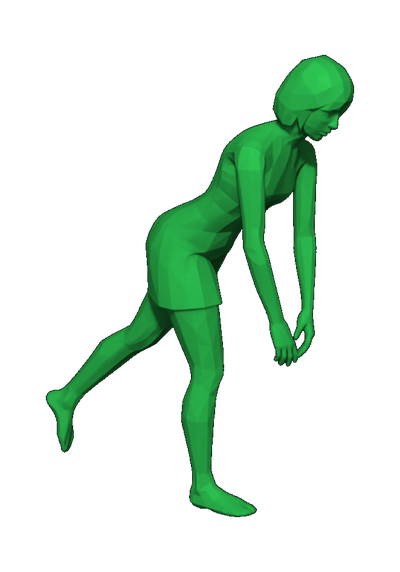
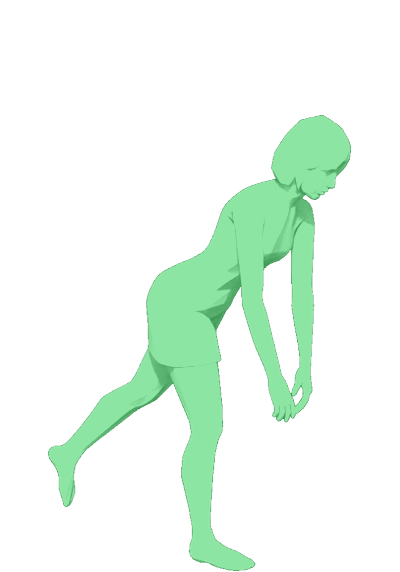
Add animated data grid hero with rotating exercise figures
Animated grid background with pulsing cells in Baseline brand colors,
5 exercise figures cycling (mobility, jefferson curl, push-up, lunge,
breathwork meditation), mouse-follow glow on desktop, auto-sizing grid.
Restructured hero layout: headline → figures → subtitle → email form.
Re-tinted all figures with consistent blend style preserving 3D shading.

Changed region(s): [[0.09, 0.0892, 0.9, 1.0]]

diff --git a/css/main.css b/css/main.css
@@ -65,13 +65,20 @@ section{position:relative}
 .mobile-nav a:hover{color:var(--accent)}
 
 /* ═══ HERO ═══ */
-.hero{position:relative;min-height:100vh;min-height:100dvh;display:flex;flex-direction:column;align-items:center;justify-content:center;overflow:hidden;padding:80px 24px 40px}
+.hero{position:relative;min-height:100vh;min-height:100dvh;display:flex;flex-direction:column;align-items:center;justify-content:flex-start;overflow:hidden;padding:72px 24px 40px}
 @media(min-width:768px){.hero{min-height:80vh}}
 .hero .glow{top:30%;left:50%;transform:translate(-50%,-50%);width:600px;height:600px;transition:background .8s ease}
-.hero-model{position:absolute;top:50%;left:50%;transform:translate(-50%,-50%);width:min(100vw,560px);height:min(70vh,560px);z-index:1;pointer-events:none}
-.hero-model img{position:absolute;inset:0;width:100%;height:100%;object-fit:contain;object-position:center bottom;opacity:0;transition:opacity 1s ease}
-.hero-model img.active{opacity:.25}
-.hero-model img.smaller{transform:scale(.55)}
+/* ═══ DATA GRID HERO ═══ */
+.data-grid-hero{position:absolute;inset:0;z-index:0;display:grid;pointer-events:none;overflow:hidden}
+.data-grid-hero.has-glow{pointer-events:auto}
+.grid-cell{border-radius:4px;opacity:var(--opacity-min,.04);will-change:opacity}
+.data-grid-glow{position:absolute;inset:0;pointer-events:none;background:radial-gradient(circle 180px at var(--mx,50%) var(--my,50%),rgba(143,168,154,.12),transparent);opacity:0;transition:opacity .3s}
+.data-grid-hero.has-glow .data-grid-glow{opacity:1}
+@keyframes cell-pulse{from{opacity:var(--opacity-min,.04)}to{opacity:var(--opacity-max,.2)}}
+@media(prefers-reduced-motion:reduce){.grid-cell{animation:none!important;opacity:var(--opacity-min,.04)}}
+.hero-model{position:relative;width:100%;height:clamp(180px,35vh,320px);margin:16px 0;pointer-events:none}
+.hero-model img{position:absolute;left:50%;top:0;transform:translateX(-50%);height:100%;width:auto;object-fit:contain;opacity:0;transition:opacity 1s ease}
+.hero-model img.active{opacity:.35}
 .hero-copy{text-align:center;max-width:480px;position:relative;z-index:2;padding-bottom:20px}
 .hero h1{font-family:var(--serif);font-size:clamp(32px,8vw,52px);font-weight:400;line-height:1.1;color:var(--t1);margin-bottom:18px;animation:fadeUp .7s ease .15s both}
 .hero h1 em{font-style:italic;color:var(--green)}
@@ -213,7 +220,7 @@ footer{padding:40px 0;border-top:1px solid var(--stroke);text-align:center}
 
 /* ═══ Email signup form ═══ */
 .notify-form{display:flex;gap:8px;max-width:380px;margin:0 auto}
-.notify-form input[type="email"]{flex:1;padding:14px 18px;border-radius:12px;border:1px solid var(--stroke);background:rgba(255,255,255,.06);color:var(--t1);font-family:var(--sans);font-size:15px;outline:none;transition:border-color .2s}
+.notify-form input[type="email"]{flex:1;padding:14px 18px;border-radius:12px;border:1px solid rgba(255,255,255,.25);background:rgba(255,255,255,.05);color:var(--t1);font-family:var(--sans);font-size:15px;outline:none;transition:border-color .2s}
 .notify-form input[type="email"]::placeholder{color:var(--t3)}
 .notify-form input[type="email"]:focus{border-color:var(--accent)}
 .notify-form button{padding:14px 24px;border-radius:12px;border:none;background:var(--green);color:rgba(0,0,0,.88);font-family:var(--sans);font-size:15px;font-weight:700;cursor:pointer;white-space:nowrap;transition:opacity .2s}

diff --git a/js/main.js b/js/main.js
@@ -26,20 +26,79 @@
   });
 })();
 
+// ═══ DataGrid Hero ═══
+(function(){
+  var el = document.getElementById('dataGridHero');
+  if (!el) return;
+  var colors = ['var(--green)','var(--tangerine)','var(--ice)','var(--solar)','var(--lavender)','var(--indigo)','var(--accent)'];
+  var cellSize = 32, gap = 4, duration = 5, maxCells = 600;
+  var glowDiv = document.createElement('div');
+  glowDiv.className = 'data-grid-glow';
+  el.appendChild(glowDiv);
+
+  function build(){
+    Array.from(el.querySelectorAll('.grid-cell')).forEach(function(c){c.remove()});
+    var w = el.offsetWidth, h = el.offsetHeight;
+    if (!w || !h) return;
+    var cols = Math.floor(w / (cellSize + gap));
+    var rows = Math.floor(h / (cellSize + gap));
+    while (rows * cols > maxCells) { rows > cols ? rows-- : cols--; }
+    el.style.gridTemplateColumns = 'repeat(' + cols + ',1fr)';
+    el.style.gridTemplateRows = 'repeat(' + rows + ',1fr)';
+    el.style.gap = gap + 'px';
+    var centerR = Math.floor(rows / 2), centerC = Math.floor(cols / 2);
+    var frag = document.createDocumentFragment();
+    var reducedMotion = window.matchMedia('(prefers-reduced-motion:reduce)').matches;
+    for (var i = 0; i < rows * cols; i++){
+      var cell = document.createElement('div');
+      cell.className = 'grid-cell';
+      cell.style.backgroundColor = colors[Math.floor(Math.random() * colors.length)];
+      cell.style.setProperty('--opacity-min','0.04');
+      cell.style.setProperty('--opacity-max','0.20');
+      if (!reducedMotion){
+        var r = Math.floor(i / cols), c = i % cols;
+        var dr = Math.abs(r - centerR), dc = Math.abs(c - centerC);
+        cell.style.animation = 'cell-pulse ' + duration + 's infinite alternate';
+        cell.style.animationDelay = (Math.sqrt(dr*dr+dc*dc)*0.15).toFixed(2) + 's';
+      }
+      frag.appendChild(cell);
+    }
+    el.appendChild(frag);
+  }
+  build();
+
+  // rebuild on resize (debounced)
+  var resizeTimer;
+  new ResizeObserver(function(){
+    clearTimeout(resizeTimer);
+    resizeTimer = setTimeout(build, 200);
+  }).observe(el);
+
+  // mouse glow (desktop only)
+  if (!('ontouchstart' in window)){
+    el.classList.add('has-glow');
+    el.addEventListener('mousemove', function(e){
+      var rect = el.getBoundingClientRect();
+      el.style.setProperty('--mx', (e.clientX - rect.left) + 'px');
+      el.style.setProperty('--my', (e.clientY - rect.top) + 'px');
+    });
+  }
+})();
+
 // ═══ Hero figure rotation ═══
 (function(){
-  const imgs = document.querySelectorAll('#heroModel img');
-  const glowEl = document.getElementById('heroGlow');
-  const catGlows = {
+  var imgs = document.querySelectorAll('#heroModel img');
+  var glowEl = document.getElementById('heroGlow');
+  var catGlows = {
     mobility:'radial-gradient(circle,rgba(48,209,88,.25),transparent)',
     bodyweight:'radial-gradient(circle,rgba(255,111,44,.25),transparent)',
     breathwork:'radial-gradient(circle,rgba(99,102,241,.25),transparent)'
   };
-  let current = 0;
+  var current = 0;
   function next(){
     imgs[current].classList.remove('active');
     current = (current + 1) % imgs.length;
-    const img = imgs[current];
+    var img = imgs[current];
     img.classList.add('active');
     glowEl.style.background = catGlows[img.dataset.cat];
   }

diff --git a/index.html b/index.html
@@ -69,25 +69,29 @@
 <main>
 <!-- ═══ HERO ═══ -->
 <section class="hero">
+  <div class="data-grid-hero" id="dataGridHero" aria-hidden="true"></div>
   <div class="glow" id="heroGlow" style="background:radial-gradient(circle,var(--green-glow),transparent)"></div>
-
-  <!-- Rotating figure: 3 poses, one per category -->
-  <div class="hero-model" id="heroModel" aria-hidden="true">
-    <img src="assets/hero_mobility.png" alt="Mobility exercise, single leg stretch" class="active" data-cat="mobility">
-    <img src="assets/hero_bodyweight.png" alt="Bodyweight strength exercise" data-cat="bodyweight">
-    <img src="assets/hero_breathwork.png" alt="Breathwork and nervous system regulation" data-cat="breathwork">
-  </div>
 
   <div class="hero-copy">
     <h1>The minimum<br><em>effective dose.</em></h1>
+
+    <!-- Rotating figure: 3 poses, one per category -->
+    <div class="hero-model" id="heroModel" aria-hidden="true">
+      <img src="assets/hero_mobility.png" alt="" class="active" data-cat="mobility">
+      <img src="assets/hero_jefferson.png" alt="" data-cat="mobility">
+      <img src="assets/hero_bodyweight.png" alt="" data-cat="bodyweight">
+      <img src="assets/hero_lunge.png" alt="" data-cat="bodyweight">
+      <img src="assets/hero_breathwork.png" alt="" data-cat="breathwork">
+    </div>
+
     <p class="hero-sub">Mobility, strength, and breathwork<br><strong>in under 20 minutes.</strong></p>
-    <p class="hero-bridge">Three practices, one daily ritual. The system builds it for you, so you never have to plan again.</p>
+    <p class="hero-bridge">No choosing. No planning. Press start.</p>
     <div id="notify" style="animation:fadeUp .7s ease .6s both;text-align:center">
-      <p style="margin-bottom:16px;font-size:15px;color:var(--accent);font-weight:600">Launching May 2026 · Free to try · Only on iPhone</p>
       <form class="notify-form" action="https://formspree.io/f/xojkyqza" method="POST">
         <input type="email" name="email" placeholder="Enter your email" required>
         <button type="submit">Notify me</button>
       </form>
+      <p style="margin-top:16px;font-size:15px;color:var(--accent);font-weight:600">Launching May 2026 · Free to try · Only on iPhone</p>
     </div>
   </div>
   <div class="hero-scroll">↓</div>
